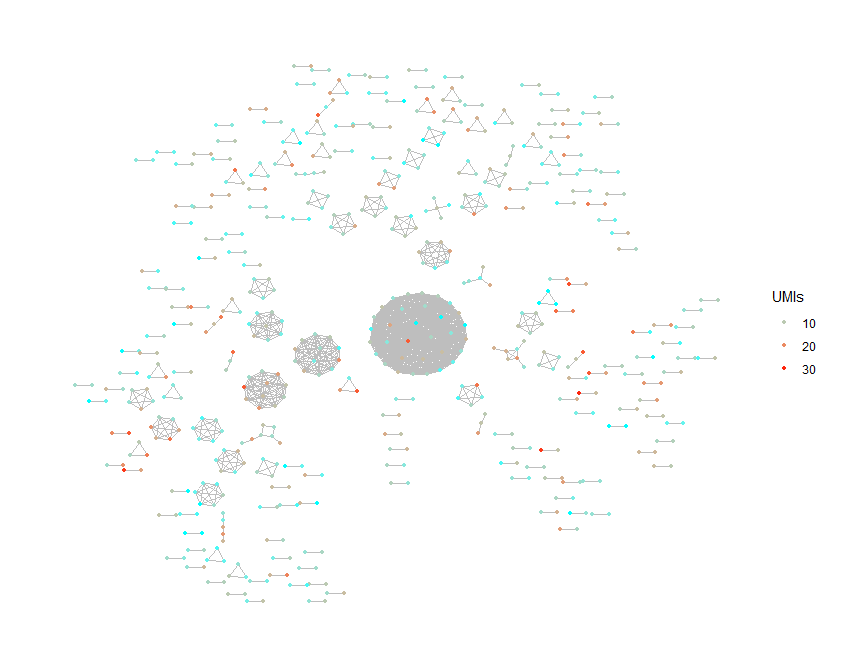
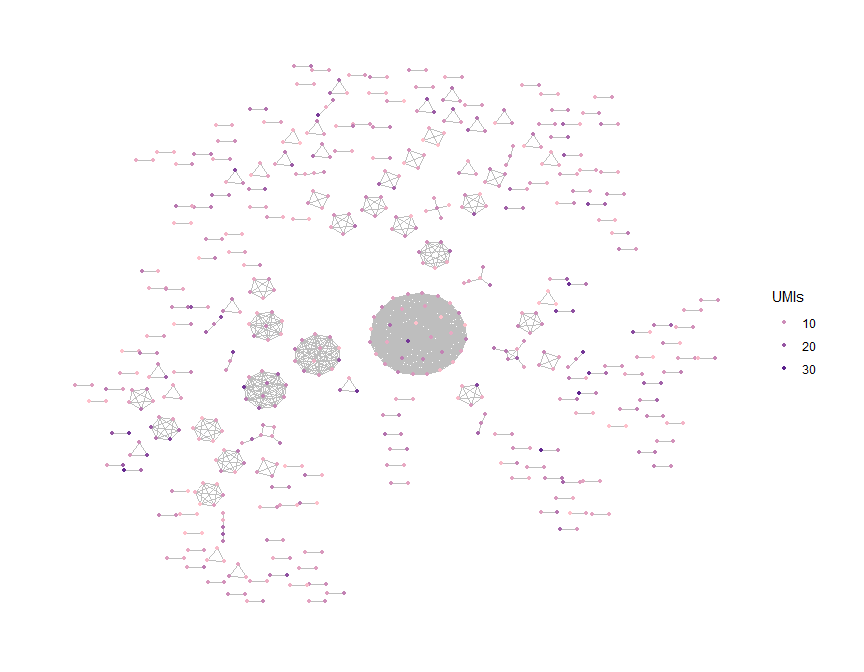
change some example plot colors and elaborate on help/vignette files in readme

diff --git a/README.md b/README.md
@@ -102,12 +102,15 @@ If you wish to specify the Python environment to use, you can do so by
 using the `use_virtualenv()` function from the `reticulate` package
 prior to calling functions from `RepSeqNetworkAnalysis`.
 
-### Vignettes
+### Vignettes and Help Files
 
-Once the package is installed, you can view the introductory vignette
-for `NAIR` in your web browser by calling
-
-    browseVignettes("NAIR")
+Once the package is installed, you can view the help directory in the
+`R` help pane by calling `help(package = "NAIR")`. This contains a
+directory of documentation files for individual package functions, as
+well as an introductory vignette accessible via the item
+`User guides, package vignettes and other documentation`. This vignette,
+whose content is reproduced below, can also be viewed in your web
+browser by calling `browseVignettes("NAIR")`.
 
 # The `buildRepSeqNetwork()` function
 
@@ -805,7 +808,7 @@ output$plots$degree + # modify plot from output
   ggraph::geom_node_point(  # color nodes by coreness and set node size to 1
     aes(color = output$node_data$umis), size = 1) +
   guides(color = guide_legend(title = "UMIs")) + # change color legend title
-  scale_color_gradient(low = "cyan", high = "red")  # change color gradient
+  scale_color_gradient(low = "pink", high = "purple4")  # change color gradient
 ```
 
 <img src="man/figures/README-unnamed-chunk-21-1.png" width="100%" style="display: block; margin: auto;" />
@@ -832,7 +835,7 @@ plotNetworkGraph(network = output$igraph,
                  color_legend_title = "C Gene",
                  title = "New plot",
                  size_nodes_by = 0.8) +
-  scale_color_manual(values = c("grey", "red", "blue"))
+  scale_color_manual(values = c("grey", "limegreen", "red2"))
 ```
 
 <img src="man/figures/README-unnamed-chunk-22-1.png" width="100%" style="display: block; margin: auto;" />
@@ -936,3 +939,11 @@ sparse integer matrices and returned in `R` as sparse matrices of class
 ``` r
 adjacency_matrix <- sparseAdjacencyMatFromSeqs(output$node_data$cdr3)
 ```
+
+# Finding Associated Clones
+
+Vignette content coming soon.
+
+# Finding Public Clones
+
+Vignette content coming soon.
